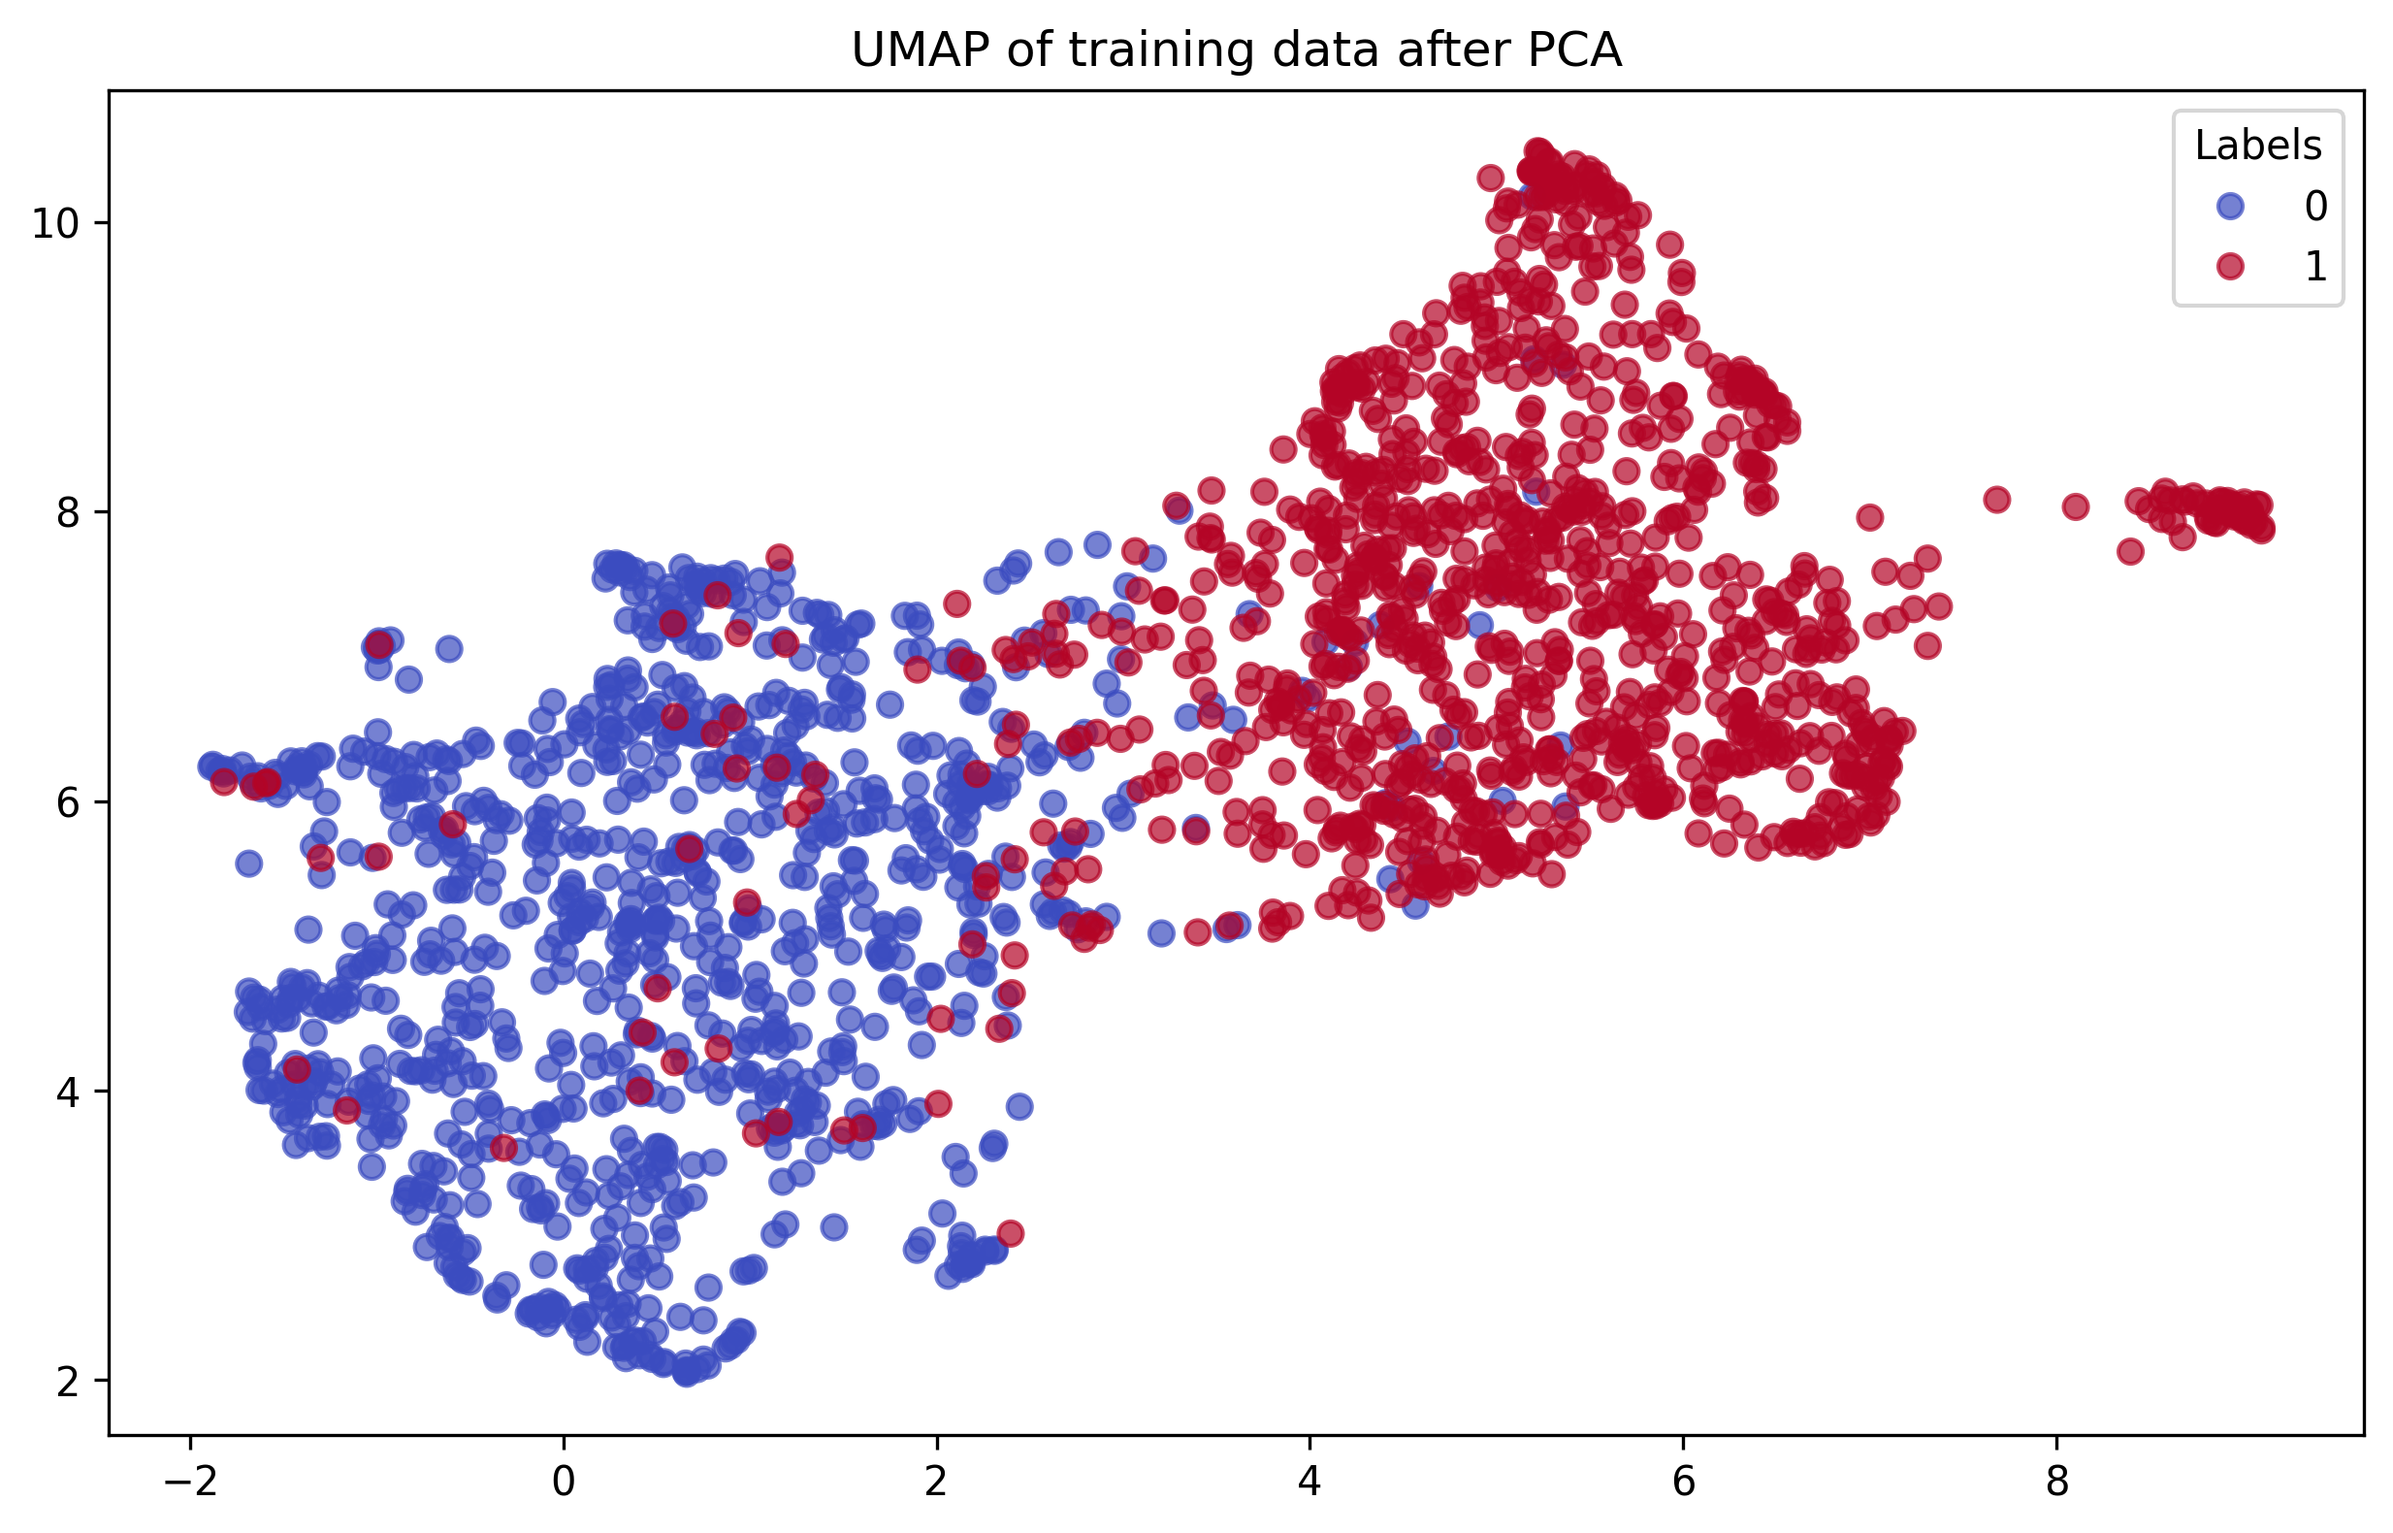
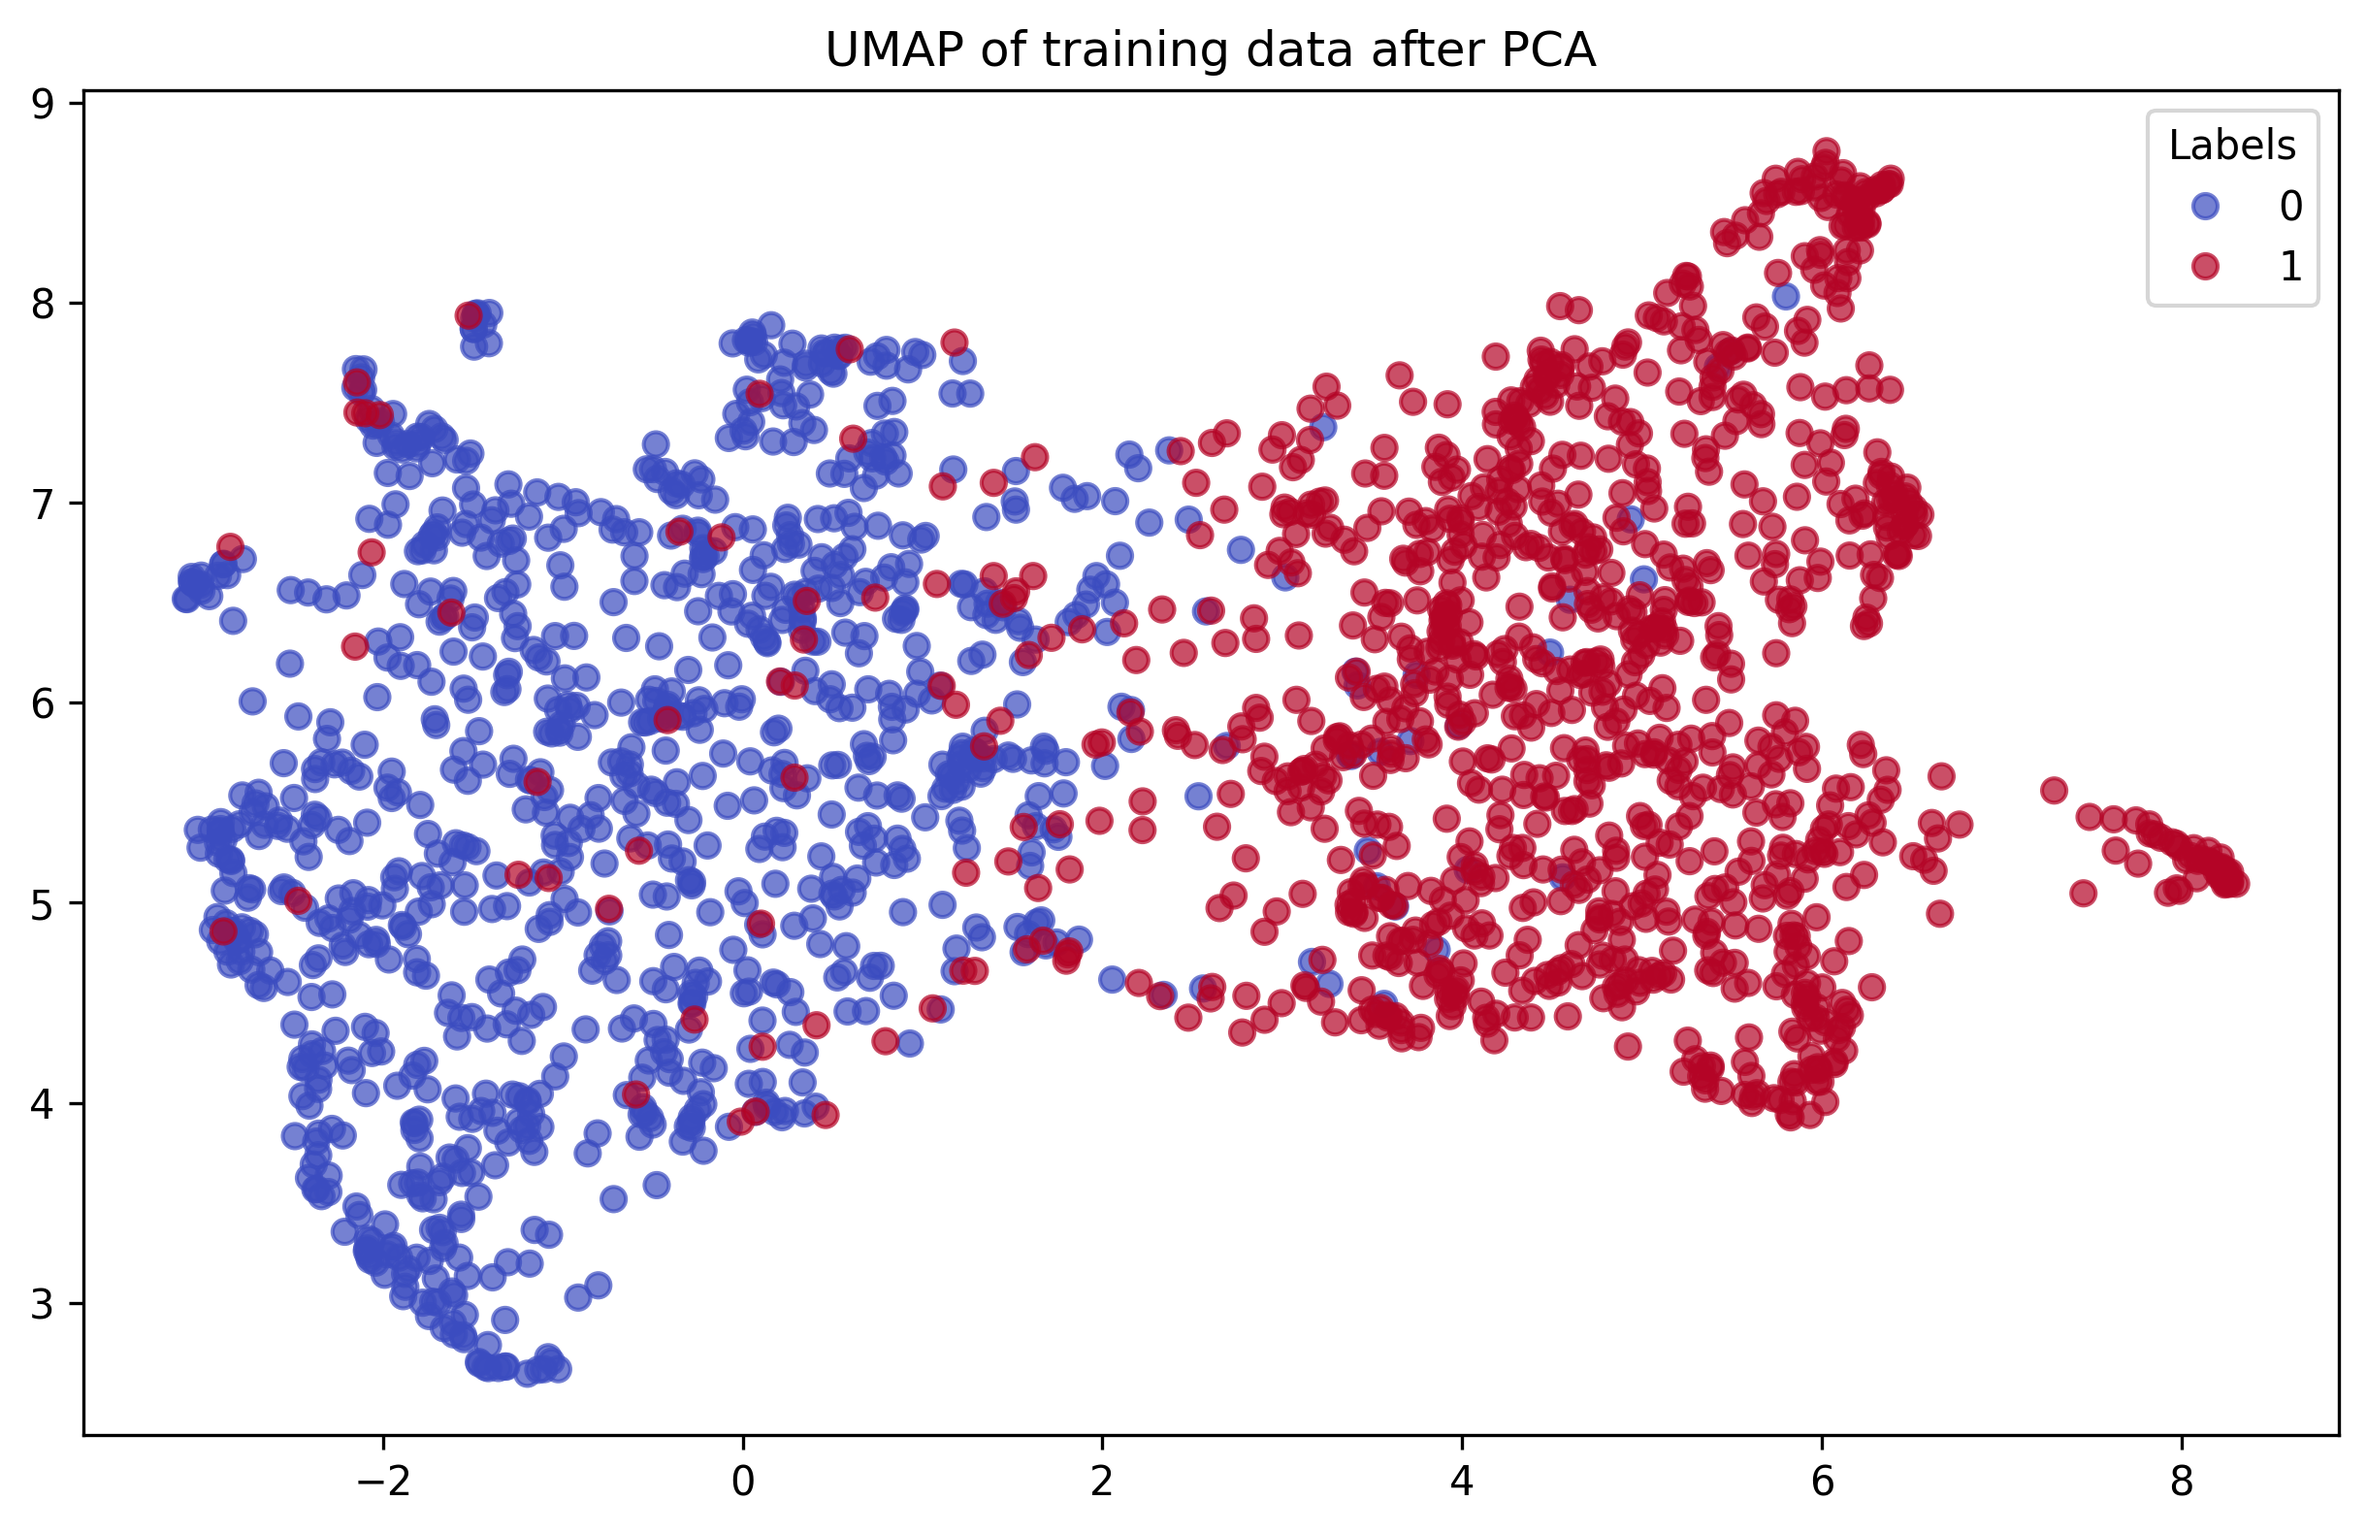
nicely reconfigured UMAP to pcik the colours and be sure of the labels, but need to repeat this for t-sne and pick nicer colours

diff --git a/data/oi.html b/data/oi.html
@@ -37089,25 +37089,25 @@
 /***/ })
 /******/ ]);
 //# sourceMappingURL=bundle.js.map </script></head><body>
-        <div class="lime top_div" id="top_divRSHU1RY3ZS99J3E"></div>
+        <div class="lime top_div" id="top_divM5S2RXCO1OCBCPP"></div>
         
         <script>
-        var top_div = d3.select('#top_divRSHU1RY3ZS99J3E').classed('lime top_div', true);
+        var top_div = d3.select('#top_divM5S2RXCO1OCBCPP').classed('lime top_div', true);
         
             var pp_div = top_div.append('div')
                                 .classed('lime predict_proba', true);
             var pp_svg = pp_div.append('svg').style('width', '100%');
-            var pp = new lime.PredictProba(pp_svg, ["medical query", "not medical query"], [0.9412721991539001, 0.058727800846099854]);
+            var pp = new lime.PredictProba(pp_svg, ["medical query", "not medical query"], [0.9966934323310852, 0.0033066379837691784]);
             
         
         var exp_div;
             var exp = new lime.Explanation(["medical query", "not medical query"]);
         
                 exp_div = top_div.append('div').classed('lime explanation', true);
-                exp.show([["heart", 0.32501325535946585], ["my", 0.2012782933304429], ["suddenly", 0.1820732310056293], ["during", 0.08737647842157448], ["drop", 0.08663899967121849], ["rate", -0.08045204644810866], ["of", 0.05344879423300188], ["run", 0.02764230416643082], ["part", 0.011012140835814602], ["first", -0.00873803442546784]], 0, exp_div);
+                exp.show([["rashes", 0.2711392583502063], ["having", 0.10984115215188921], ["spontaneous", 0.10834101673138184], ["face", 0.10127756163115503], ["what", 0.06767560877125754], ["My", 0.05598844290892061], ["knows", 0.04393913165330665], ["s", 0.03844185461245448], ["is", 0.026705304969290425], ["her", -0.019357612015857777]], 0, exp_div);
                 
         var raw_div = top_div.append('div');
-            exp.show_raw_text([["heart", 12, 0.32501325535946585], ["my", 9, 0.2012782933304429], ["my", 58, 0.2012782933304429], ["suddenly", 23, 0.1820732310056293], ["during", 37, 0.08737647842157448], ["drop", 32, 0.08663899967121849], ["rate", 18, -0.08045204644810866], ["of", 55, 0.05344879423300188], ["run", 61, 0.02764230416643082], ["part", 50, 0.011012140835814602], ["first", 44, -0.00873803442546784]], 0, "Why does my heart rate suddenly drop during first part of my run?", raw_div, true);
+            exp.show_raw_text([["rashes", 32, 0.2711392583502063], ["having", 13, 0.10984115215188921], ["spontaneous", 20, 0.10834101673138184], ["face", 46, 0.10127756163115503], ["what", 65, 0.06767560877125754], ["My", 0, 0.05598844290892061], ["knows", 59, 0.04393913165330665], ["s", 70, 0.03844185461245448], ["is", 10, 0.026705304969290425], ["her", 42, -0.019357612015857777]], 0, "My friend is having spontaneous rashes on her face. Anyone knows what's going on?", raw_div, true);
             
         </script>
         </body></html>

diff --git a/src/visualise.py b/src/visualise.py
@@ -6,16 +6,11 @@ import numpy as np
 import pandas as pd
 from sklearn.metrics import silhouette_score
 from sklearn.cluster import KMeans
-
-def visualise(X_pos_train_embed_align, X_neg_train_embed_align, X_pos_test_embed_align, X_neg_test_embed_align, X_pos_strings_train, X_pos_strings_test, X_neg_strings_train, X_neg_strings_test, Y_pos_class_train, Y_pos_class_test, Y_neg_class_train, Y_neg_class_test, X_concat_strings_train, X_concat_strings_test, Y_concat_class_train, Y_concat_class_test, X_pos_train_PCA, X_neg_train_PCA, X_pos_test_PCA, X_neg_test_PCA):
-    #bins to look at how much data is in each and to look at balance
-    #t-SNE
-    #UMAP nearest neighbours
-    #cosine
-    #silhouette
-    return 
+import matplotlib.patches as mpatches
 
 def tsne_display(X, y, title):
+    #t-SNE (t-distributed Stochastic Neighbor Embedding)
+    #decomposes into 2D based on preserving local neighbourhoods so is good to see natural clusters in embeddings
     tsne = TSNE(n_components=2, random_state=42)
     examples_2d = tsne.fit_transform(X)
 
@@ -26,36 +21,48 @@ def tsne_display(X, y, title):
     plt.savefig(f"data/visualisation/{title}.png", dpi=300, bbox_inches='tight')
     plt.show()
 
-def UMAP_display(Xe, y, title):
+def UMAP_display(X, y, title):
+    #UMAP (Uniform Manifold Approximation and Projection)
+    #decomposes to 2D based on local and global by assuming data lies on a manifold
+    #supposedly can show more meaningful distances (say differences within medical query clusters even, so could be better for severity testing)
+    #Quicker, less complexity for large amounts of data so use this
     reducer = umap.UMAP(n_components=2, random_state=42)
-    X_emb_2d = reducer.fit_transform(Xe)
+    X_emb_2d = reducer.fit_transform(X)
 
-    plt.figure(figsize=(10, 6))
-    scatter = plt.scatter(X_emb_2d[:, 0], X_emb_2d[:, 1], c=y, cmap='coolwarm', alpha=0.7)
-    plt.legend(*scatter.legend_elements(), title="Labels")
+    # 0 = positive, 1 = negative
+    colors_dict = {0: '#b2182b', 1: '#2166ac'}  # dark red for positive, dark blue for negative
+    colors = [colors_dict[label] for label in y]
+
+    plt.figure(figsize=(10,6))
+    plt.scatter(X_emb_2d[:,0], X_emb_2d[:,1], c=colors, alpha=0.7)
+    red_patch = mpatches.Patch(color='#b2182b', label='Positive')
+    blue_patch = mpatches.Patch(color='#2166ac', label='Negative')
+    plt.legend(handles=[red_patch, blue_patch])
     plt.title(title)
     plt.savefig(f"data/visualisation/{title}.png", dpi=300, bbox_inches='tight')
-   
-    
     plt.show()
     return X_emb_2d
 
 def UMAP_investigate(X_emb_2d, Xs, y):
-         # --- Create DataFrame with coordinates and labels ---
+    #Create dataframe to probe the two classification clusters
     umap_df = pd.DataFrame(X_emb_2d, columns=['UMAP1', 'UMAP2'])
     umap_df['label'] = y
 
-    # --- Cluster the UMAP points ---
+    #use same  clustering with Kmeans as done in Silhouette Score
     kmeans = KMeans(n_clusters=2, random_state=42)
     umap_df['cluster'] = kmeans.fit_predict(X_emb_2d)
-    # --- Find misclustered points (label != cluster) ---
+    #finds 'mislabeled' samples in the clusters
     misclustered = umap_df[umap_df['label'] != umap_df['cluster']]
+    #prints this to see
+    print(f"Number of misclustered queries: {len(misclustered)}\n")
 
-    print(f"Number of misclustered points: {len(misclustered)}\n")
-
-    # --- Inspect the misclustered sentences ---
+    #print out some examples of the misclustered samples to see if there is semantic ambiguity
     mis_idx = misclustered.index
-    for i in mis_idx[:20]:  # show first 10 for brevity
+    n_queries = 10
+    random_indices = np.random.choice(mis_idx, size=min(n_queries, len(mis_idx)), replace=False)
+
+   
+    for i in random_indices:  # show first 10 for brevity
         print(f"Label: {y[i]}, Cluster: {umap_df.loc[i, 'cluster']}")
         print(f"Sentence: {Xs[i]}")
         print("---")
@@ -65,7 +72,7 @@ def data_balance_display(Xtnp, Xtnn, Xtsp, Xtsn):
     #plot each of the data selected on a bar chart and display number of samples for each
     labels = ['Medical Query Train', 'Non-medical Query Train', 'Medical Query Test', 'Non-medical Query Test']
     sizes = [len(Xtnp), len(Xtnn), len(Xtsp), len(Xtsn)]
-    colours = ["#7D2E7C", "#B75EB4", "#3E678E", '#64B5F6'] 
+    colours = ["#2166ac", "#b2182b", '#67a9cf', "#e24e5f"] 
     plt.figure(figsize=(10, 6))
     bars = plt.bar(labels, sizes, color = colours)
     # Add value labels on top of each bar

diff --git a/src/main.py b/src/main.py
@@ -17,6 +17,7 @@ data_balance_display(X_pos_strings_train, X_neg_strings_train, X_pos_strings_tes
 
 # PLEASE BE AWARE THIS IS WHERE I SWITCH FROM TRAIN (P N) TEST (P N) TO POS (TN TS) NEG (TN TS) WATCH OUT
 #Like in ANTONIO, use SVD to align the entire dataset in the orientation based on positive medical query training data
+#used same encoder as ANTONIO, but important to edit inside this function AND within this script so that LIME is correct, if changed
 X_pos_train_embed_align, X_pos_test_embed_align, X_neg_train_embed_align, X_neg_test_embed_align, align_matrix= embed_and_align(X_pos_strings_train, X_neg_strings_train, X_pos_strings_test, X_neg_strings_test)
 
 #Concatenate datasets for visualisation tasks - could do in another location but want flexibility
@@ -34,11 +35,14 @@ print_silhouette_score(Vis_X_train_embed_align)
 print_cosine_sim_demo(Vis_X_train_embed_align, Vis_X_train_string, Vis_Y_train)
 #note that results from this indicate how embeddings don't seem to hold semantic meaning very well here - similarity is computed low for similar sentneces, or high with misclassing
 
+#Two popular methods of visually inspecting high-D data are t-SNE and UMAP, for completeness I included both, but for speed and to see how distance might relate to meaning will only show UMAP
+#Be aware that UMAP assumes embedding data lies on a manifold and this may not be accurate
 # tsne_title1 = "T-SNE of training data after embeddings and SVD"
 # tsne_display(Vis_X_train_embed_align, Vis_Y_train, tsne_title1)
-# umap_title1 = "UMAP of training data after embeddings and SVD"
-# UMAP_output = UMAP_display(Vis_X_train_embed_align, Vis_Y_train, umap_title1)
-# UMAP_investigate(UMAP_output, Vis_X_train_string, Vis_Y_train)
+umap_title1 = "UMAP of training data after embeddings and SVD"
+UMAP_output = UMAP_display(Vis_X_train_embed_align, Vis_Y_train, umap_title1)
+
+UMAP_investigate(UMAP_output, Vis_X_train_string, Vis_Y_train)
 
 # X_pos_train_PCA, X_pos_test_PCA, X_neg_train_PCA, X_neg_test_PCA, data_pca1 = PCA_to_reduce_embeddings(X_pos_train_embed_align, X_pos_test_embed_align, X_neg_train_embed_align, X_neg_test_embed_align)
 
